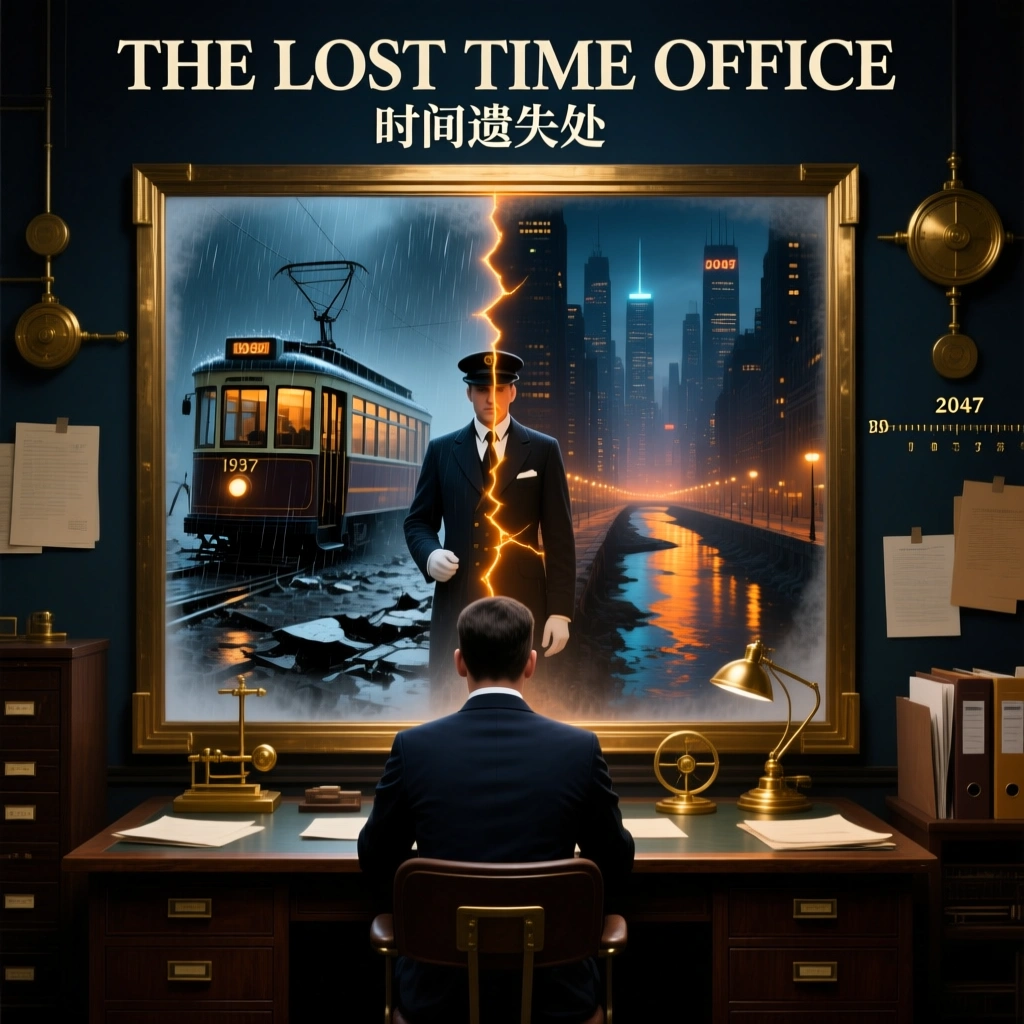
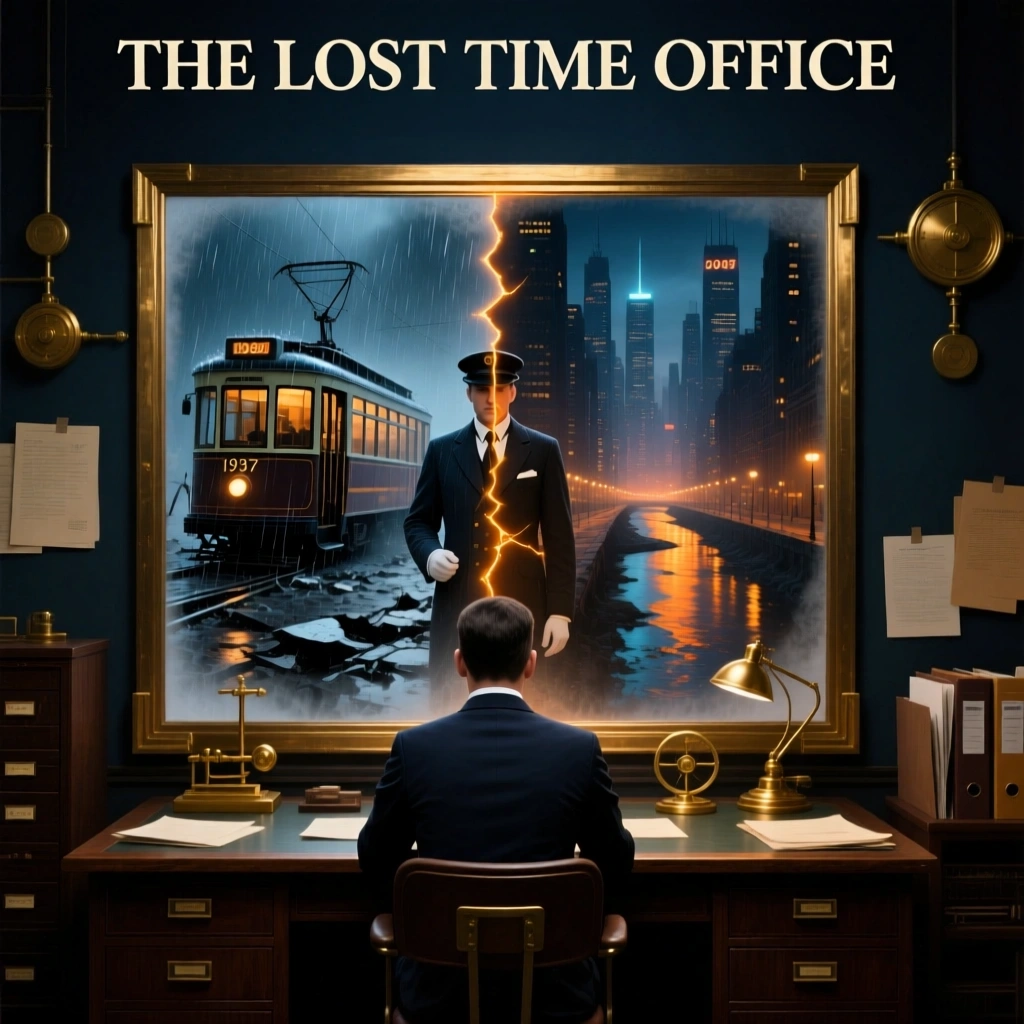
Remove Chinese text from poster

Changed region(s): [[0.3438, 0.0938, 0.5938, 0.1562], [0.8438, 0.375, 1.0, 0.4375]]

diff --git a/index.html b/index.html
@@ -1,10 +1,10 @@
 <!doctype html>
-<html lang="zh-CN">
+<html lang="en">
   <head>
     <meta charset="UTF-8" />
     <meta name="viewport" content="width=device-width, initial-scale=1.0, viewport-fit=cover" />
     <meta name="theme-color" content="#071522" />
-    <title>时间遗失处</title>
+    <title>The Lost Time Office</title>
   </head>
   <body>
     <div id="root"></div>

diff --git a/_assets/generate_assets.py b/_assets/generate_assets.py
@@ -4,9 +4,8 @@
 import json
 import os
 import subprocess
+import sys
 import time
-import urllib.error
-import urllib.request
 from pathlib import Path
 
 API_URL = "https://chat.aiwaves.tech/aigram/api/gen-image"
@@ -20,6 +19,7 @@ ROOT = Path(__file__).resolve().parents[1]
 PORTRAITS = ROOT / "public" / "portraits"
 POSTER = ROOT / "public" / "poster.png"
 LOG = ROOT / "_assets" / "transit-generation.json"
+PUBLIC_POSTER_REF = "https://yinxinghuan.github.io/lost-time-bureau/poster.png"
 
 STYLE = (
     "narrative editorial science-fiction illustration, grounded retro-futurist municipal archive, "
@@ -40,28 +40,51 @@ CHARACTERS = {
 }
 
 POSTER_PROMPT = (
-    "Square narrative key art for a philosophical time-travel decision game. A lone midnight civil servant sits at "
-    "a dark wooden archive desk in the lower center, facing a frosted brass-framed service window. Behind the glass "
-    "stands a displaced 1930s tram conductor, divided by a thin vertical amber time fracture. On the left half beyond "
-    "him is a rain-soaked 1937 tram crash; on the right half is a vast 2049 night city with one buried river glowing "
-    "under the streets. Brass timeline instruments and paper files frame the scene without looking like interface UI. "
-    "Strong emotional conflict, one human life weighed against a city history, subject and faces kept centrally framed. "
-    "Large clean title at the very top in a generous safe area, with no symbols or marks above it: "
-    "THE LOST TIME OFFICE. Small Chinese subtitle directly below: 时间遗失处. Typography legible, ivory engraved serif. "
-    "Midnight navy, oxidized brass, amber and paper palette, painterly editorial science-fiction poster, atmospheric, "
-    "not cyberpunk, not steampunk, no UI screenshot, no border, no watermark, no date, no year, no numerals anywhere, "
-    "only the requested English title and Chinese subtitle, high-resolution square image, fills frame edge to edge."
+    "Edit the reference into polished square narrative key art for an international English-language audience. "
+    "Preserve the midnight civil servant at the dark wooden archive desk, the brass-framed service window, the "
+    "displaced tram conductor, the vertical amber time fracture, the rainy historic tram scene, the future night city, "
+    "and the midnight navy, oxidized brass, amber and warm paper palette. Keep the scene painterly, cinematic, serious "
+    "and humane. At the very top, retain one exact, large, highly legible ivory engraved-serif title: "
+    "THE LOST TIME OFFICE. Remove the Chinese subtitle completely. Remove every other word, letter, number, date, "
+    "label, glyph, pseudo-text and writing from the entire image, including the tram, buildings, instruments, files, "
+    "drawers and margins. English title only. No subtitle. No logo. No watermark. No border. No interface UI. "
+    "High-resolution square image filling the frame edge to edge."
 )
 
 
-def generate(prompt: str, retries: int = 3) -> str:
-    data = json.dumps({"prompt": prompt}).encode()
+def generate(prompt: str, ref_url: str | None = None, retries: int = 3) -> str:
+    payload = {"prompt": prompt}
+    if ref_url:
+        payload["ref_url"] = ref_url
+    data = json.dumps(payload).encode()
     last = None
     for attempt in range(retries):
         try:
-            req = urllib.request.Request(API_URL, data=data, method="POST", headers=HEADERS)
-            with urllib.request.urlopen(req, timeout=360) as response:
-                body = json.loads(response.read())
+            response = subprocess.run(
+                [
+                    "curl",
+                    "-fsSL",
+                    "--max-time",
+                    "360",
+                    "-X",
+                    "POST",
+                    API_URL,
+                    "-H",
+                    f"Content-Type: {HEADERS['Content-Type']}",
+                    "-H",
+                    f"Origin: {HEADERS['Origin']}",
+                    "-H",
+                    f"Referer: {HEADERS['Referer']}",
+                    "-H",
+                    f"User-Agent: {HEADERS['User-Agent']}",
+                    "--data-binary",
+                    data.decode(),
+                ],
+                check=True,
+                capture_output=True,
+                text=True,
+            )
+            body = json.loads(response.stdout)
             url = body.get("url")
             if not url:
                 raise RuntimeError(f"No URL in response: {body}")
@@ -75,31 +98,42 @@ def generate(prompt: str, retries: int = 3) -> str:
 
 def download(url: str, destination: Path) -> None:
     destination.parent.mkdir(parents=True, exist_ok=True)
-    req = urllib.request.Request(url, headers={"User-Agent": "Mozilla/5.0"})
-    with urllib.request.urlopen(req, timeout=90) as response:
-        data = response.read()
     source_ext = os.path.splitext(url.split("?")[0])[1].lower()
+    temp = destination if source_ext == ".png" else destination.with_suffix(source_ext or ".jpg")
+    subprocess.run(
+        ["curl", "-fsSL", "--max-time", "90", "-A", HEADERS["User-Agent"], url, "-o", str(temp)],
+        check=True,
+    )
     if source_ext == ".png":
-        destination.write_bytes(data)
         return
-    temp = destination.with_suffix(source_ext or ".jpg")
-    temp.write_bytes(data)
     subprocess.run(["sips", "-s", "format", "png", str(temp), "--out", str(destination)], check=True, capture_output=True)
     temp.unlink(missing_ok=True)
 
 
 def main() -> None:
+    poster_only = "--poster" in sys.argv
+    force = "--force" in sys.argv
     records = []
-    jobs = [(PORTRAITS / name, f"{STYLE}. Character: {description}.") for name, description in CHARACTERS.items()]
-    jobs.append((POSTER, POSTER_PROMPT))
-    for index, (output, prompt) in enumerate(jobs, start=1):
-        if output.exists():
+    jobs = [] if poster_only else [
+        (PORTRAITS / name, f"{STYLE}. Character: {description}.", None)
+        for name, description in CHARACTERS.items()
+    ]
+    jobs.append((POSTER, POSTER_PROMPT, PUBLIC_POSTER_REF))
+    for index, (output, prompt, ref_url) in enumerate(jobs, start=1):
+        if output.exists() and not force:
             print(f"[{index}/{len(jobs)}] skip existing {output.name}", flush=True)
             continue
         print(f"[{index}/{len(jobs)}] generating {output.name}", flush=True)
-        url = generate(prompt)
+        url = generate(prompt, ref_url=ref_url)
         download(url, output)
-        records.append({"file": str(output.relative_to(ROOT)), "url": url, "endpoint": API_URL, "origin": HEADERS["Origin"], "prompt": prompt})
+        records.append({
+            "file": str(output.relative_to(ROOT)),
+            "url": url,
+            "endpoint": API_URL,
+            "origin": HEADERS["Origin"],
+            "ref_url": ref_url,
+            "prompt": prompt,
+        })
         print(f"saved {output}", flush=True)
         time.sleep(2)
     previous = []

diff --git a/doc/technical.md b/doc/technical.md
@@ -28,6 +28,7 @@ lost-time-bureau/
     types.ts                   # 案件、证据、裁定和本地化类型
   _qa/                         # Playwright 双尺寸全流程脚本、截图与报告
   _assets/
+    generate_assets.py         # 平台 transit 人物/英文海报生成与来源记录
     generate_manual_plates.py  # 平台 transit 生图、裁切、压缩与来源记录
     manual-generation.json     # 每张插画的接口、来源 URL 和完整 prompt
 ```
@@ -37,6 +38,7 @@ lost-time-bureau/
 - `useLostTimeBureau()` 管理 `start → case → reveal → result`。线索和暂停会补偿倒计时，页面进入后台自动暂停。
 - 判断页只消费人物姓名、对白和 3 个证据入口；职业、时间术语、内部资源与后果不常驻显示。顶部人物状态入口复用当前肖像缩略图，并把进度、倒计时与进入箭头合并成一个 44 px 高触控区。
 - `LostTimeBureau.less` 使用纯 CSS 构成统一档案材料层：暖灰纸、暗蓝打字墨、暗红登记线、方格表、装订边与打孔；主界面仅在 HUD、人物窗口边框、口述记录和裁定按钮上使用这套语言，弹窗、揭晓和结算则完整采用档案页结构。纸纹由低对比度渐变生成，不增加图片请求。
+- `generate_assets.py --poster --force` 使用线上旧海报作为公开 `ref_url`，通过 Aigram transit 重做英文海报并记录请求来源；请求和下载均调用系统 `curl`，避免本机 Python 证书链差异。
 - 主人物窗口通过 `data-file="PSB-<case>"` 显示案卷编号；对白和裁定区通过本地化 `data-label` 生成“来客口述记录 / 裁定签署栏”等档案栏头，英文界面使用对应英文标签。
 - `PortraitImage` 以案件 ID 重新挂载；当前与下一张人物图预载。新图在 `load/error` 或 1.2 秒保险任一路解除遮罩，失败时显示姓名首字剪影。每案开始时也并行预载该人物的 3 张说明书插画，但不阻塞人物和按钮。
 - 线索抽屉一次渲染一项证据，并把原有技术标签映射为“随身物品 / 他说的过去 / 会发生什么”。`ClueVisual` 优先展示 `public/manual/<case>-<evidence>.jpg`，加载前或失败时保留日期环、记忆轨迹和去留分叉线稿；DOM 叠加真实读数，本地 `clueExpanded` 决定是否继续挂载文字细节。

diff --git a/doc/visual.md b/doc/visual.md
@@ -52,7 +52,7 @@
 
 - 保留 `public/portraits/` 的 7 张 1024×1024 人物肖像，维持现有裁切和灯光。
 - 判断页肖像使用 `object-fit: cover`，眼睛保持在上三分线；短屏可裁掉肩部，不裁脸。
-- 开始页保留 `public/poster.png`。
+- 开始页保留 `public/poster.png`；传播与列表海报面向英语用户，只允许出现清晰英文标题 `THE LOST TIME OFFICE`，禁止中文副标题及其他装饰性文字。
 - 每位来客的三条线索各有一张 `public/manual/<case>-<evidence>.jpg` 说明书插画；插画只表现人物、物件、动作和因果，不生成文字、字母、数字或水印。准确读数与中英文解释始终由 DOM 叠加。
 - “会发生什么”的插画也用于判定页的后果层，让冲击性画面停留到玩家主动继续，而不是一闪而过。
 - 图片失败显示同色剪影和姓名；游戏文字与按钮必须继续可用。

diff --git a/_qa/visual-qa-report.md b/_qa/visual-qa-report.md
@@ -42,6 +42,7 @@
 - 新状态：时空图初始态与完成 3 次裁定后的实时态均在 390×844、320×568 留有截图；地图节点、内部滚动、暂停恢复和返回路径可达。
 - 本地化：额外检查英文 320×568 的人物 HUD 与时空图；`CURRENT`、`MAP`、长人物名和 `BACK TO VISITOR` 均无溢出，触控目标保持 ≥44 px。
 - 材料层：开始页、判断页、线索抽屉、状态页、时空图、揭晓和结算均保留暖灰纸、登记线和装订边；所有纸纹对比度低于正文，不影响中文或英文阅读。
+- 海报：1024×1024 原图与 160×160 列表缩略图均只保留英文标题 `THE LOST TIME OFFICE`；中文副标题已移除，标题位于顶部安全区，人物冲突在缩略图下仍可辨认。
 
 ## Iteration evidence
 